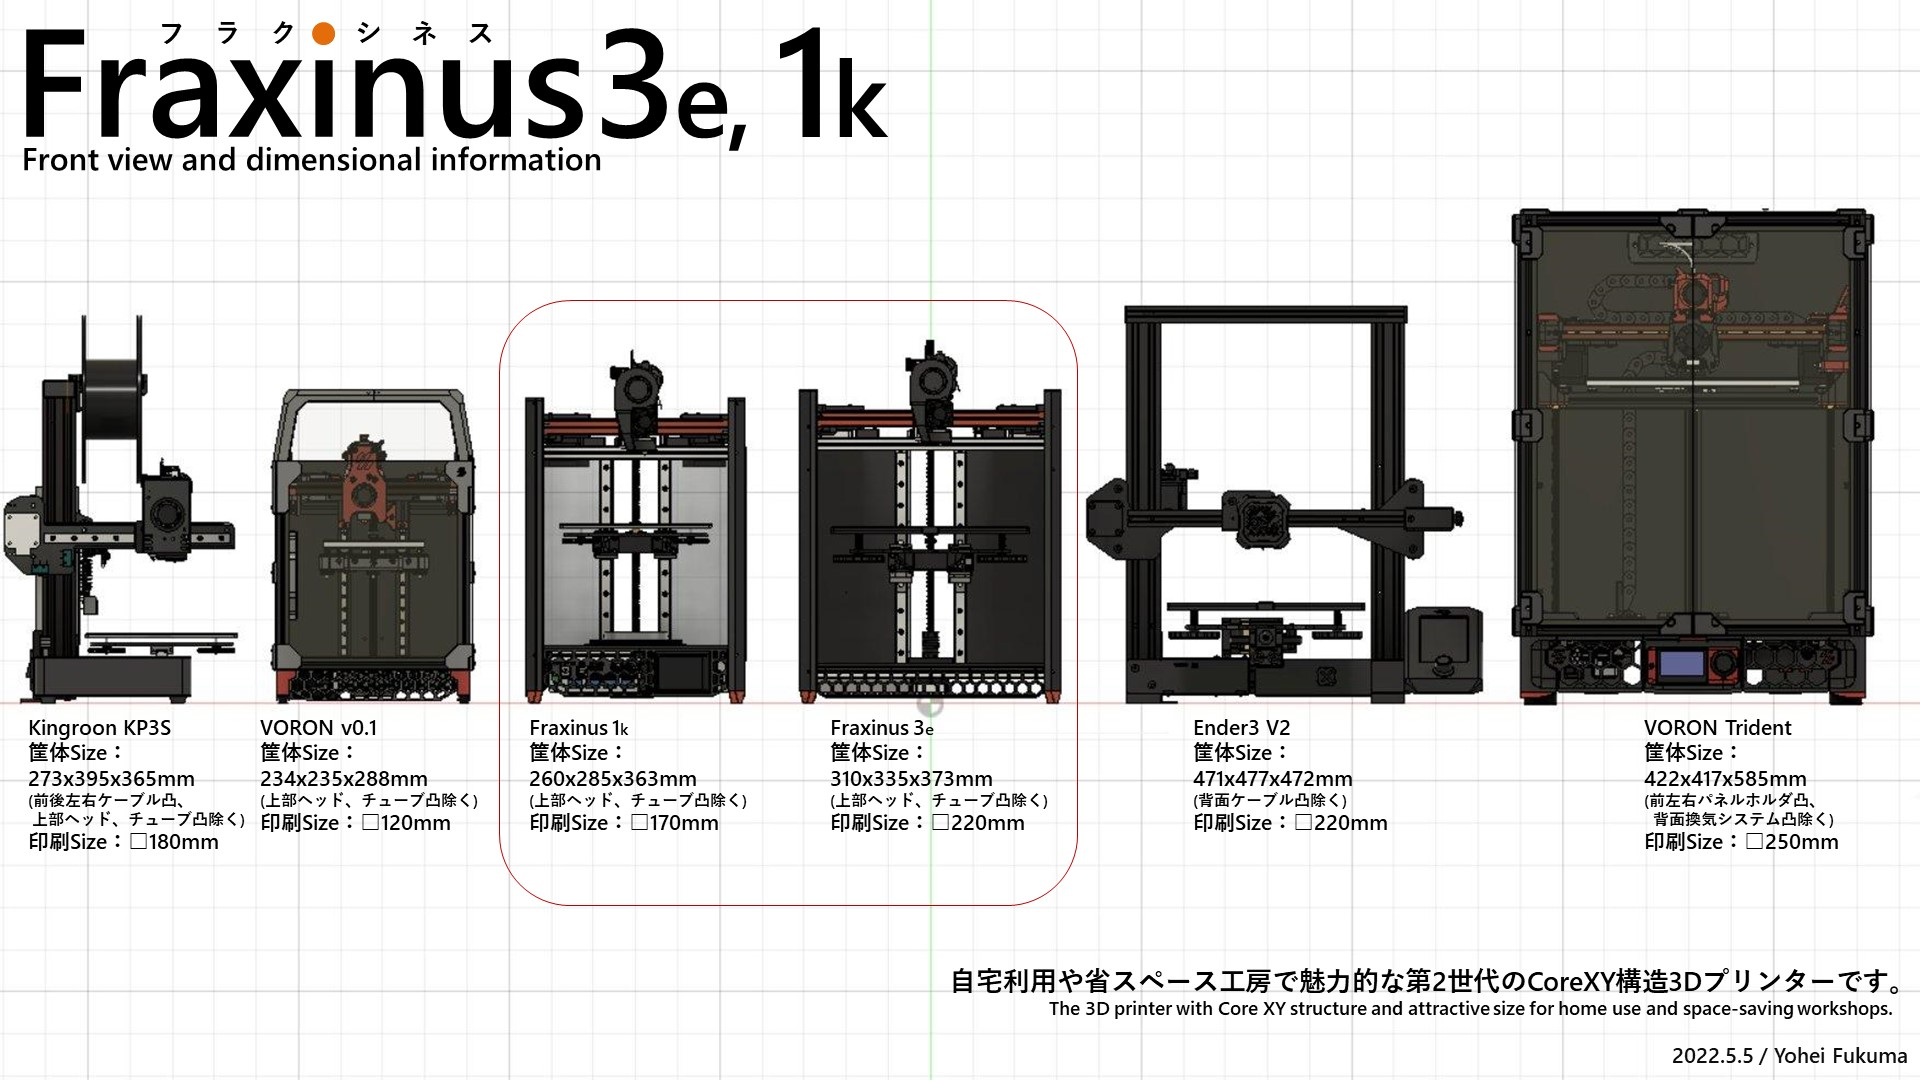
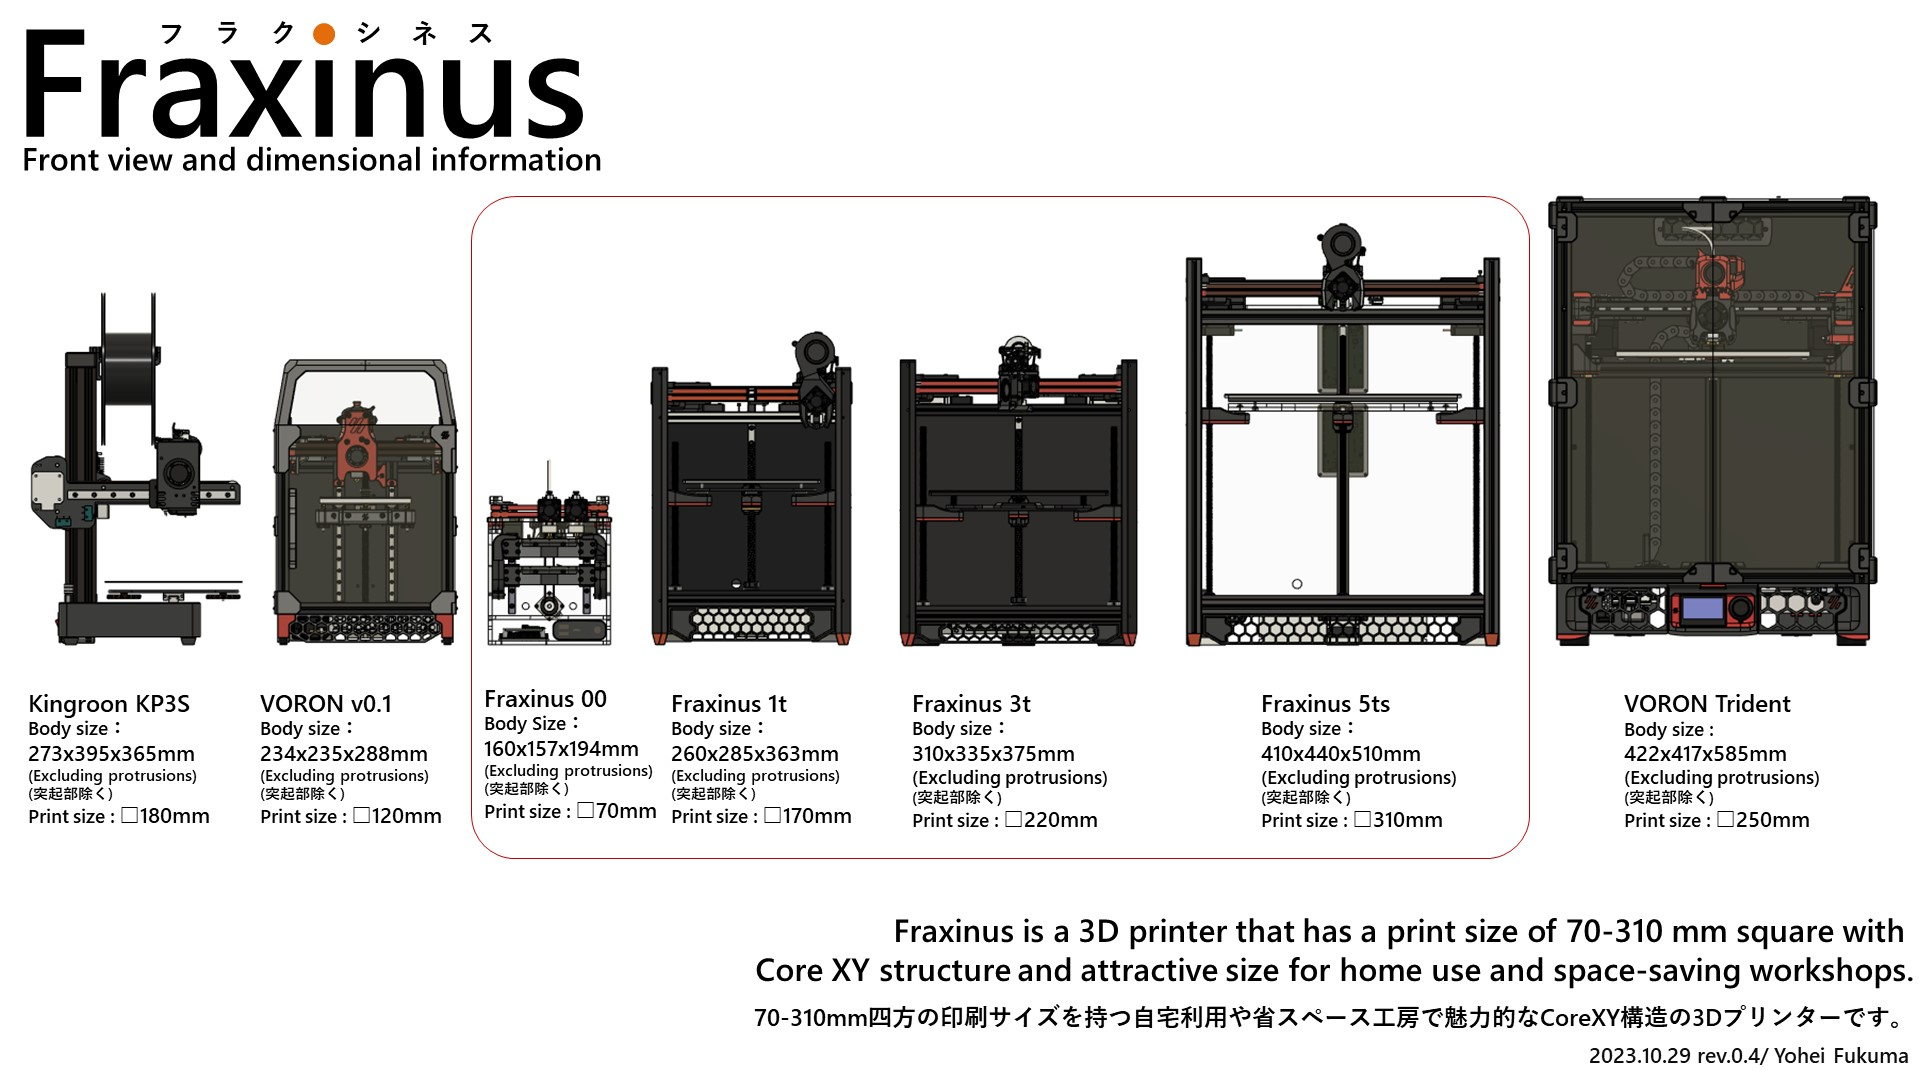
Add Fraxinus 5ts, 00w

diff --git a/content/page/about.en.md b/content/page/about.en.md
@@ -10,9 +10,10 @@ weight: -210
 
 Fraxinus is a compact 3D printer for home and small workshop use.  
 Although it is compact, it still retains the high-speed capabilities thanks to its CoreXY design.  
-Currently, we are developing two models with print sizes of 170mm³ and 220mm³.
+Currently, we are developing 4 models with print sizes of 70mm³, 170mm³, 220mm³ and 310mm³.
 
 ![](/images/Fraxinus-1.jpg)
+
 ## Fraxinus1k
 
 * Body size: 260x285x356mm (excluding print head and tube)
@@ -26,6 +27,20 @@ Currently, we are developing two models with print sizes of 170mm³ and 220mm³.
 * Print size: 215x220x220mm
 
 ![](/images/Fraxinus3e.jpg)
+
+## Fraxinus5ts
+
+* Body size: 410x440x510mm (excluding print head and tube)
+* Print size: 310x310x310mm
+
+![](/images/Fraxinus5ts.jpg)
+
+## Fraxinus00w
+
+* Body size: 153x152x176mm (excluding print head and tube)
+* Print size: 70x70x70mm
+
+![](/images/Fraxinus00w.jpg)
 
 ## Size of Fraxinus
 

diff --git a/README.md b/README.md
@@ -2,12 +2,16 @@
 
 CoreXY構造を採用したコンパクト3Dプリンター「Fraxinus（フラクシネス）」プロジェクトのウェブサイト
 
-現在印刷サイズは170mm角と220mm角の2機種を展開しています。
+2023年11月現在印刷サイズは70mm角、170mm角、220mm角、310mm角の4種を展開しています。  
 
 ![](./static/images/Fraxinus1k.jpg)
 ![](./static/images/Fraxinus3e.jpg)
+![](./static/images/Fraxinus5ts.jpg)
+![](./static/images/Fraxinus00w.jpg)
 
 ## License
+
+(C) 2022-2023 Fraxinus Project
 
 `static/images`および`content`フォルダ内のファイルは[CC BY-NC-SA 4.0](https://github.com/Fraxinus-3D/docs/blob/main/LICENSE.md#CC-BY-NC-SA)（[日本語](https://creativecommons.org/licenses/by-nc-sa/4.0/legalcode.ja)）で公開されています。
 

diff --git a/content/_index.en.md b/content/_index.en.md
@@ -12,7 +12,7 @@ layout: home
 
 Fraxinus is a compact 3D printer for home and small workshop use.  
 Although it is compact, it still retains the high-speed capabilities thanks to its CoreXY design.  
-Currently, we are developing two models with print sizes of 170mm³ and 220mm³.  
+Currently, we are developing 4 models with print sizes of 70mm³, 170mm³, 220mm³ and 310mm³.  
 There are aloso [enclosure version](/en/docs/enclosure/) and [trident version](/en/docs/trident/).
 
 Fraxinus is being developed and tested on the Discord community.  
@@ -22,3 +22,5 @@ Invite link: https://fraxinus.jp/discord
 
 ![](/images/Fraxinus1k.jpg)
 ![](/images/Fraxinus3e.jpg)
+![](/images/Fraxinus5ts.jpg)
+![](/images/Fraxinus00w.jpg)

diff --git a/LICENSE.md b/LICENSE.md
@@ -4,7 +4,7 @@ Except where otherwise noted (described below) all the files are:
 ```
 MIT License
 
-Copyright (c) 2022 Fraxinus Project
+Copyright (C) 2022-2023 Fraxinus Project
 
 Permission is hereby granted, free of charge, to any person obtaining a copy
 of this software and associated documentation files (the "Software"), to deal

diff --git a/content/docs/_index.md b/content/docs/_index.md
@@ -13,4 +13,4 @@ menu:
 * [組立資料](./assembly)
 * [プロジェクトロードマップ](./roadmap)
 * [エンクロージャ](./enclosure)
-* [トライデント版](./docs/trident)
+* [トライデント版](./trident)
